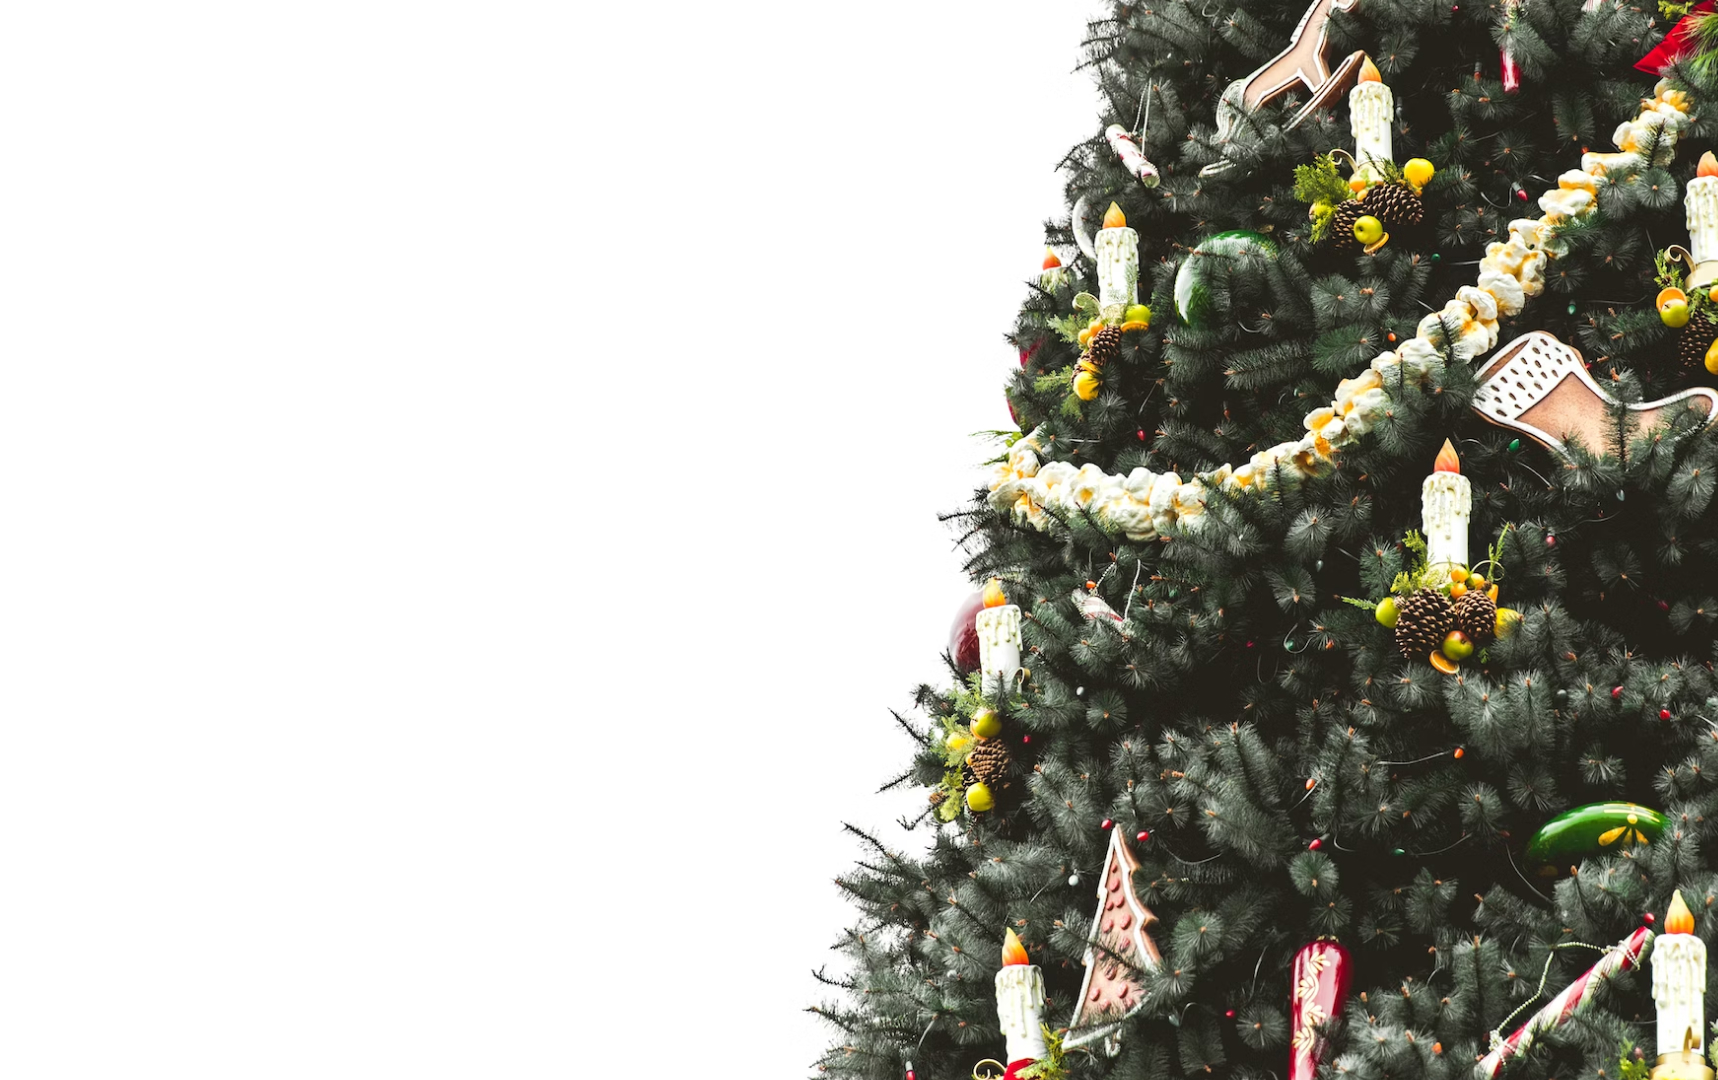
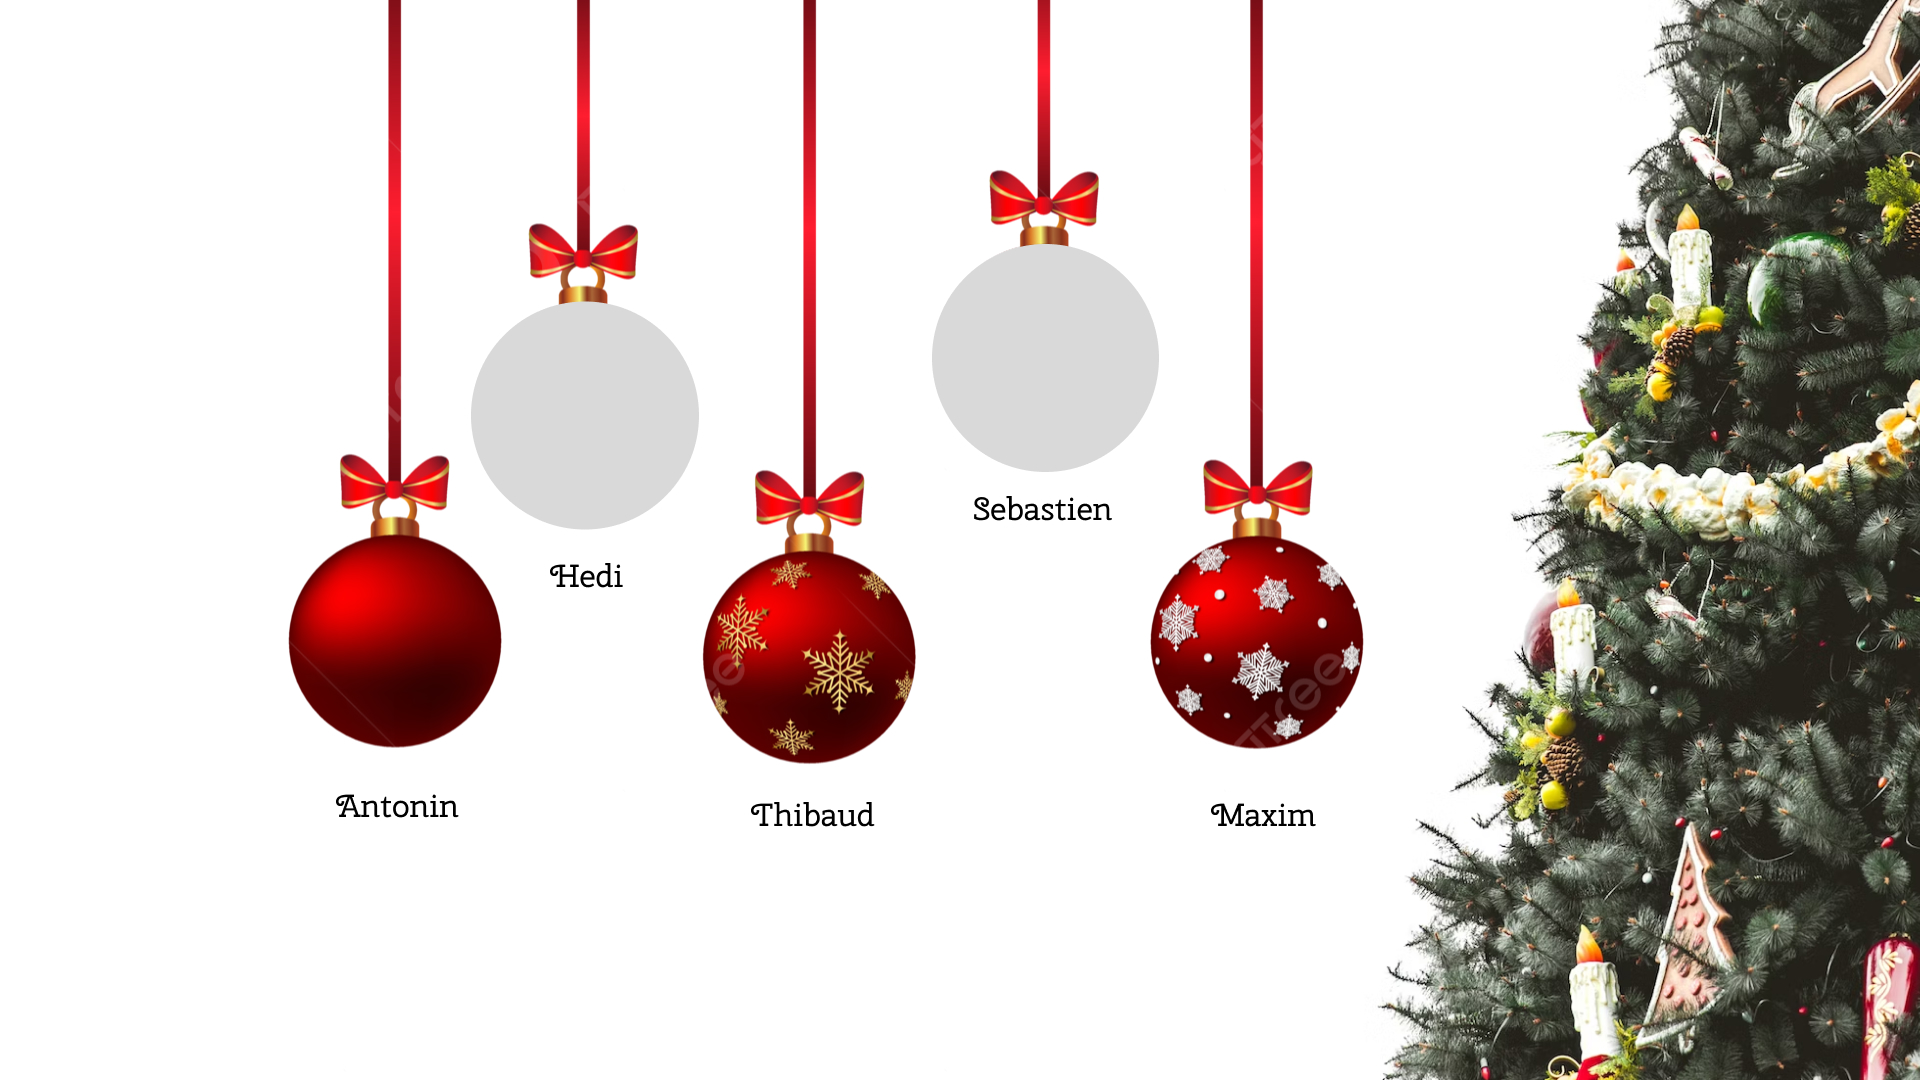
les bouboules

diff --git a/frontend/src/pages/About.jsx b/frontend/src/pages/About.jsx
@@ -1,10 +1,39 @@
 import React from "react";
+import { Link } from "react-router-dom";
+
+import Anto from "../assets/anto.png";
+import Hedi from "../assets/hedi.png";
+import Tibo from "../assets/tibo.png";
+import Seb from "../assets/seb.png";
+import Max from "../assets/max.png";
 import "../style/About.css";
 
 function About() {
   return (
-    <div className="tout">
-      <div className="boule"> </div>
+    <div className="about">
+      <div className="top-row">
+        <Link
+          className="hedi-link"
+          to="https://www.youtube.com/watch?v=dQw4w9WgXcQ"
+        >
+          <img src={Hedi} className="top-left" alt="tete-hedi" />
+        </Link>
+        <Link className="seb-link" to="https://github.com/Romeoseb-dev">
+          <img src={Seb} className="top-right" alt="tete-seb" />
+        </Link>
+      </div>
+      <div className="bottom-row">
+        <Link className="anto-link" to="https://github.com/AntoPAA">
+          <img src={Anto} className="bottom-left" alt="tete-anto" />
+        </Link>
+        <Link className="tibo-link" to="https://github.com/ThibaudDps">
+          <img src={Tibo} className="bottom-middle" alt="tete-tibo" />
+        </Link>
+
+        <Link className="max-link" to="https://github.com/iNaeRoZ">
+          <img src={Max} className="bottom-right" alt="tete-max" />
+        </Link>
+      </div>
     </div>
   );
 }

diff --git a/frontend/src/style/About.css b/frontend/src/style/About.css
@@ -1,14 +1,52 @@
-.tout {
+.about {
   background: url("../assets/Background-about.jpg");
   background-size: cover;
   background-position: center;
   background-repeat: no-repeat;
   height: 100vh;
 }
-.boule {
-  background: url("../assets/Boules-about.png");
-  background-repeat: no-repeat;
-  background-size: contain;
-  height: 100%;
-  width: 65%;
+
+.tete-anto,
+.tete-seb,
+.tete-hedi,
+.tete-tibo,
+.tete-max {
+  display: flex;
+  flex-direction: column;
+  width: 200px;
+}
+
+.top-row {
+  display: flex;
+  justify-content: space-around;
+}
+
+.bottom-row {
+  display: flex;
+  justify-content: space-around;
+}
+
+.top-left,
+.top-right,
+.bottom-left,
+.bottom-middle,
+.bottom-right {
+  position: relative;
+  width: 9.5em;
+}
+
+.top-left {
+  margin: 220px 0 0 350px;
+}
+.top-right {
+  margin: 170px 640px 0 0;
+}
+.bottom-left {
+  margin: -10px 0 30px 180px;
+}
+.bottom-middle {
+  margin: 0 40px 0 0;
+}
+.bottom-right {
+  margin: -10px 450px 0 0;
 }
